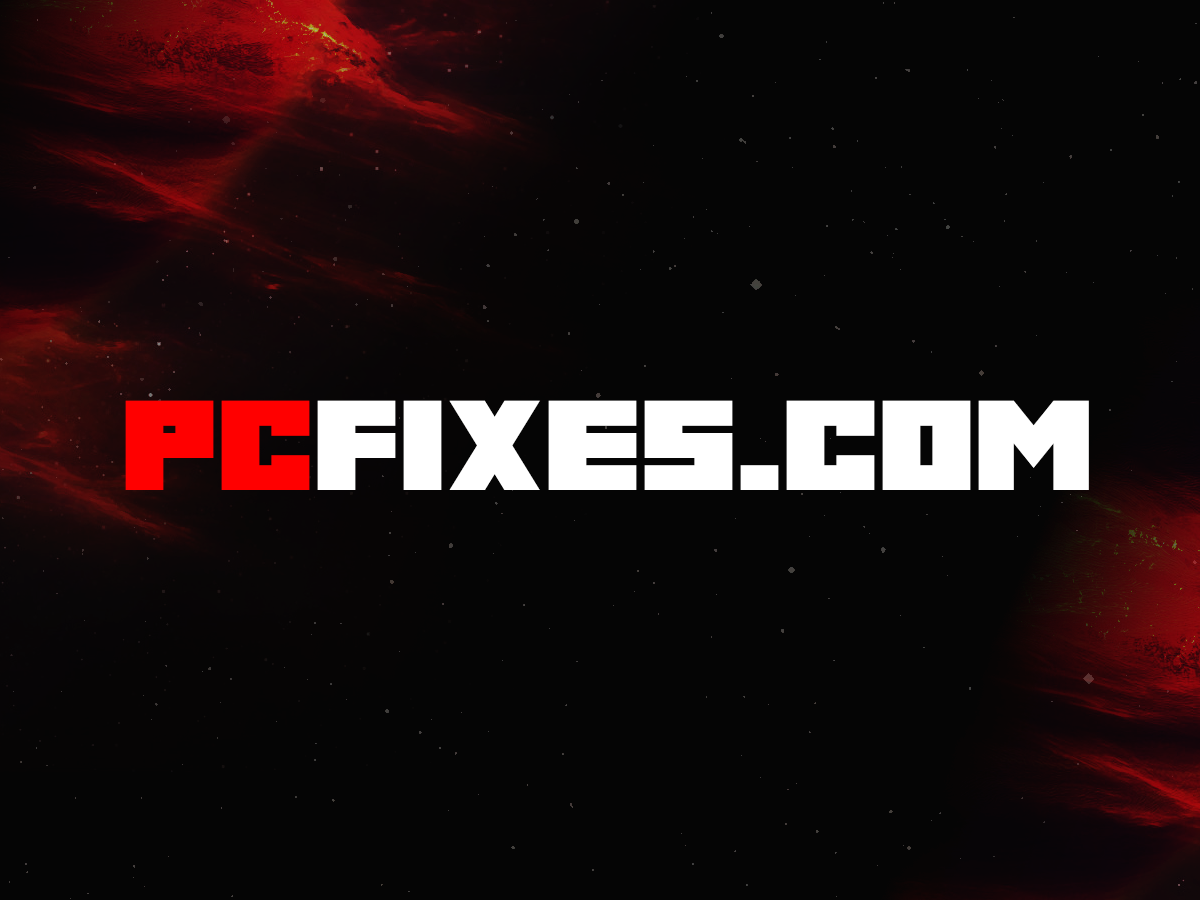
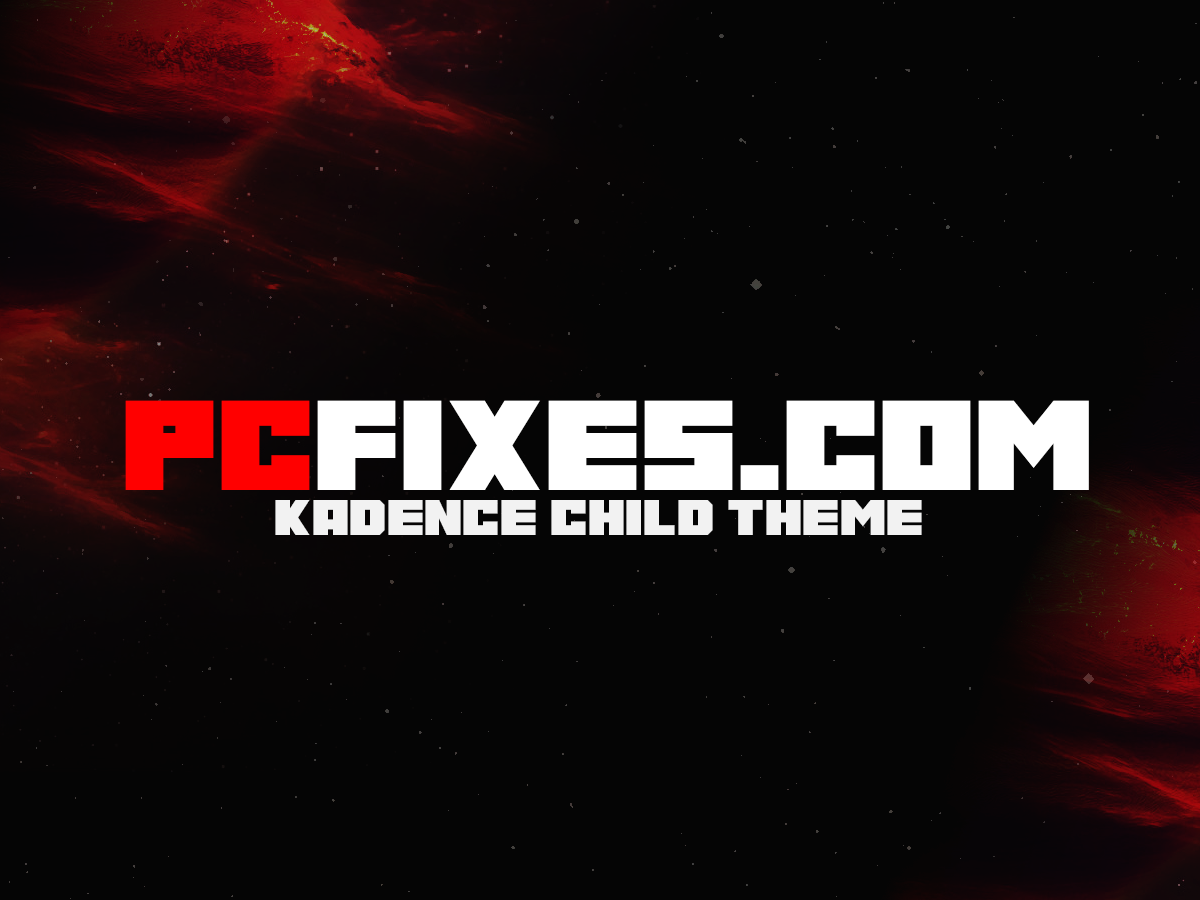
Updated Code & SCreenshot

Changed region(s): [[0.2158, 0.5289, 0.7708, 0.6222]]

diff --git a/style.css b/style.css
@@ -1,5 +1,5 @@
 /*!
-Theme Name: Child Theme
+Theme Name: Kadence Child Theme
 Theme URI: https://www.pcfixes.com
 Template: kadence
 Author: PCFixes.com
